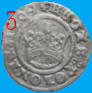
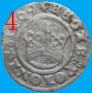
changed bg color for re.png

Changed region(s): [[0.0435, 0.1075, 0.1957, 0.3226]]

diff --git a/Scripts/extract_imagine.py b/Scripts/extract_imagine.py
@@ -128,29 +128,28 @@ for i in range(len(contours)):
 
 ########################################################
 aux = Image.open('Assets\\Greyscale test\\Gaina4.jpg')
-cul = get_color(aux)
 image_number=0
 cts_by_area=sorted(contours, key=lambda c:cv.contourArea(c), reverse=True)
+
+blanc = np.zeros((1, 1, 3), np.uint8)
+cv.imwrite("Assets\\Objects\\rez.png",blanc)
+
 for c in cts_by_area:
     x,y,w,h = cv.boundingRect(c)
     element = img[y:y+h, x:x+w] #selectam imaginea intr-un dreptunghi
-    cv.imwrite("Assets\\Objects\\element_{}_area_{}_perim_{}.png".format(image_number,cv.contourArea(c),round(cv.arcLength(c, True),4)), element)
+    cv.imwrite("Assets\\Objects\\element_{}.png".format(image_number), element)
 
 
     #creere imagnie cu numar
-    im = Image.open("Assets\\Objects\\element_{}_area_{}_perim_{}.png".format(image_number,cv.contourArea(c),round(cv.arcLength(c, True),4)))
+    im = Image.open("Assets\\Objects\\element_{}.png".format(image_number))
+
     adaugare_numar(im, image_number)
     image_number += 1
-
-
-    
-    #rez = Image.open("Assets\\Objects\\rez.png")
+    rez = Image.open("Assets\\Objects\\rez.png")
     
     #originalImage = cv.imread(concatenare_orizontala(rez, im, (0, 0, 0)))
     #cv.imwrite("Assets\\Objects\\rez.png", concatenare_orizontala(rez, im, (0, 0, 0)))
-    
-    #concatenare_orizontala(rez, im, cul).save("Assets\\Objects\\rez.png")
-   
+    concatenare_orizontala(rez, im, (bgcolor[2],bgcolor[1],bgcolor[0])).save("Assets\\Objects\\rez.png")
    # rez.save("Assets\\Objects\\rez.png")
     #creere imagine prin concatenare
 ########################################################
@@ -221,7 +220,7 @@ cv.drawContours(img,contours,0,thickness=5,color=[int(s) for s in img[0][0]])
 ################################################################################
 
 
-blanc = np.zeros((1, 1, 3), np.uint8)
+
 
 aux = Image.open('Assets\\Greyscale test\\Gaina4.jpg')
 cul = get_color(aux)

diff --git a/Scripts/adaugare_numar.py b/Scripts/adaugare_numar.py
@@ -7,8 +7,8 @@ import cv2 as cv
 
 #numarat fisiere ROI
 #  
-im1 = Image.open('ROI_0.png')
-ac = Image.new('L', (im1.width , im1.height))
+#im1 = Image.open('ROI_0.png')
+#ac = Image.new('L', (im1.width , im1.height))
 
 
 
@@ -18,7 +18,7 @@ def adaugare_numar (a, num):
 
     font = ImageFont.truetype('Scripts\\fontu.ttf', 25)
 
-    text= str(num)
+    text= str(num+1)
 
     draw.text((5, 5), text= text, fill="red", font=font, align="right")
 
